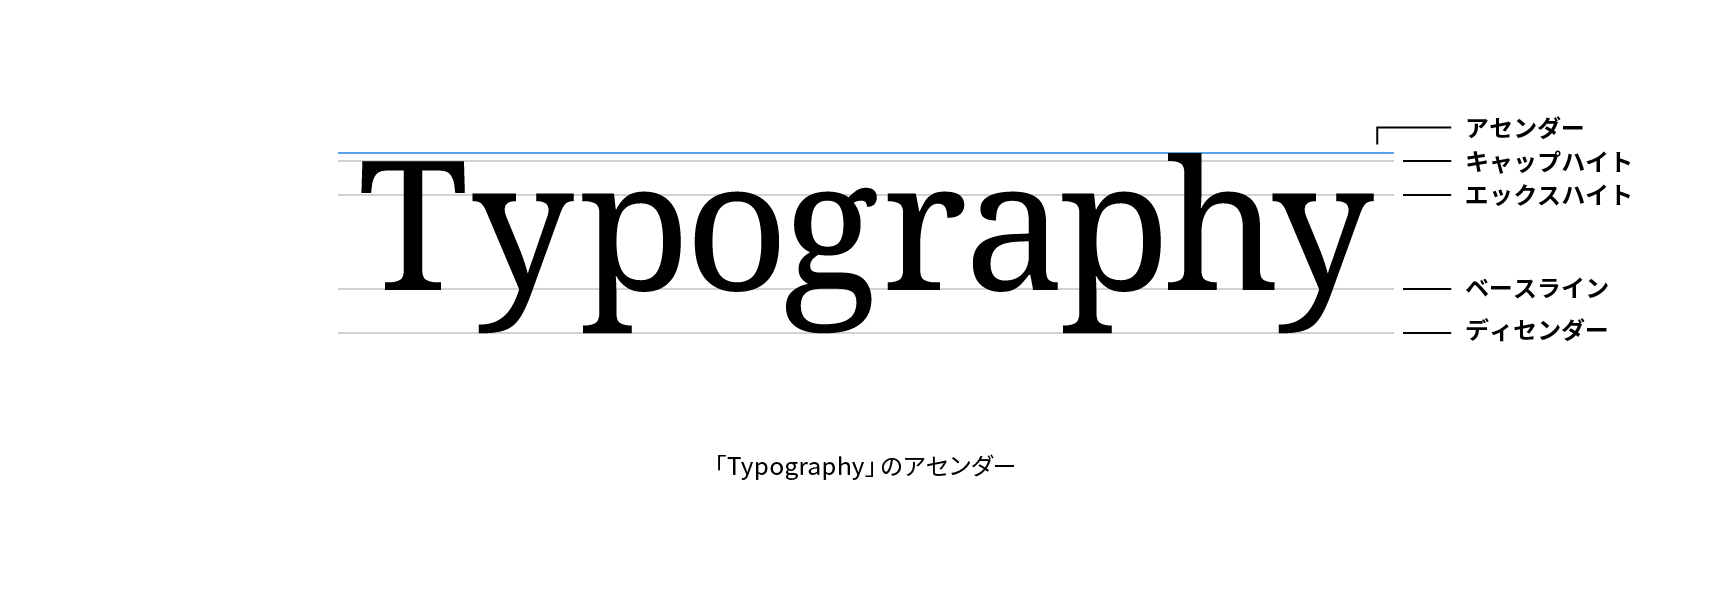
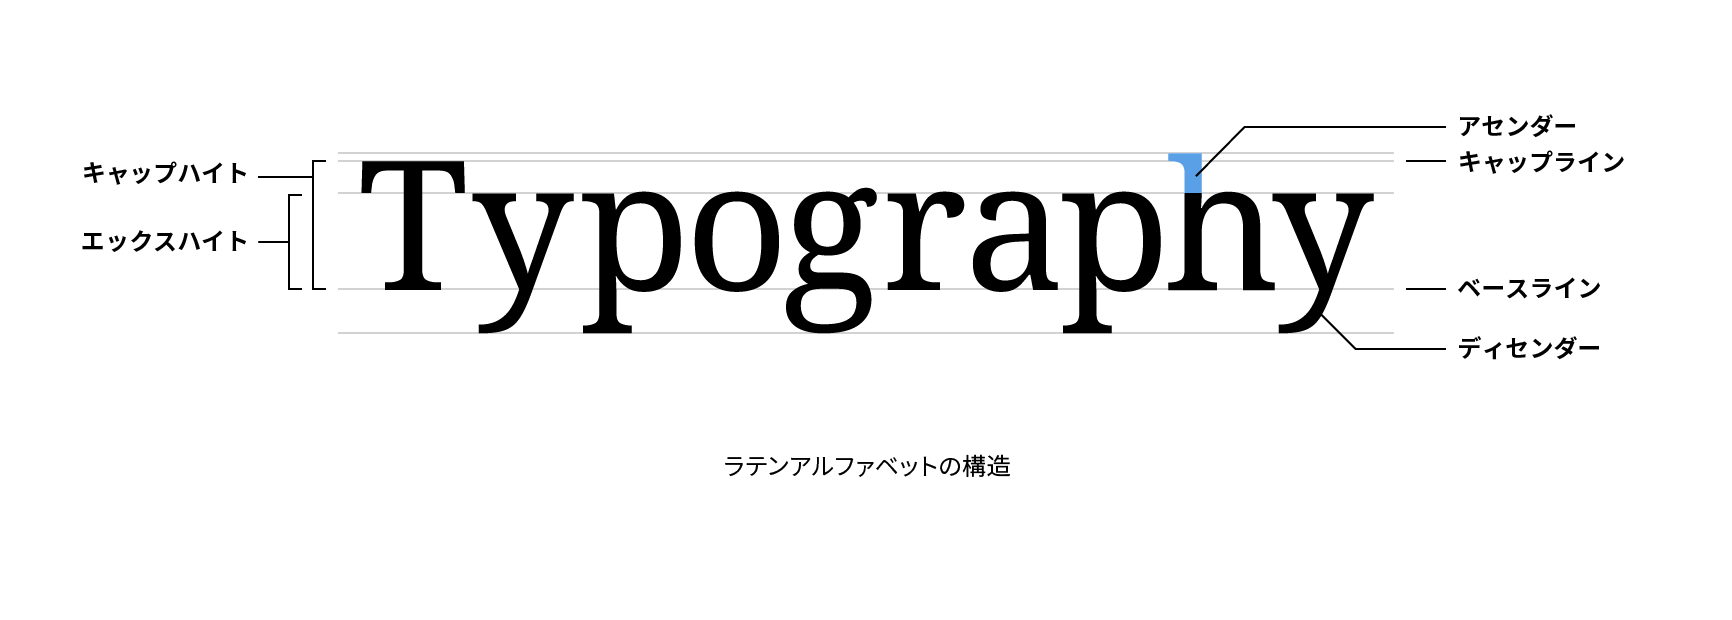
アセンダー図版修正

diff --git a/terms/ascender.md b/terms/ascender.md
@@ -2,7 +2,7 @@
 
 アセンダー（ascender）はアルファベットの小文字「b」、「d」、「f」、「k」、「l」のエックスハイトより上に出ている部分のことです。アセンダーの上端が接する仮想のラインをアセンダーライン（ascender line）といいます。多くの書体でアセンダーラインはキャップラインより少し高くなります。
 
-![「Typography」のアセンダー](../images/ascender.png)
+![ラテンアルファベットの構造](../images/ascender.png)
 
 ## 関連項目
 
